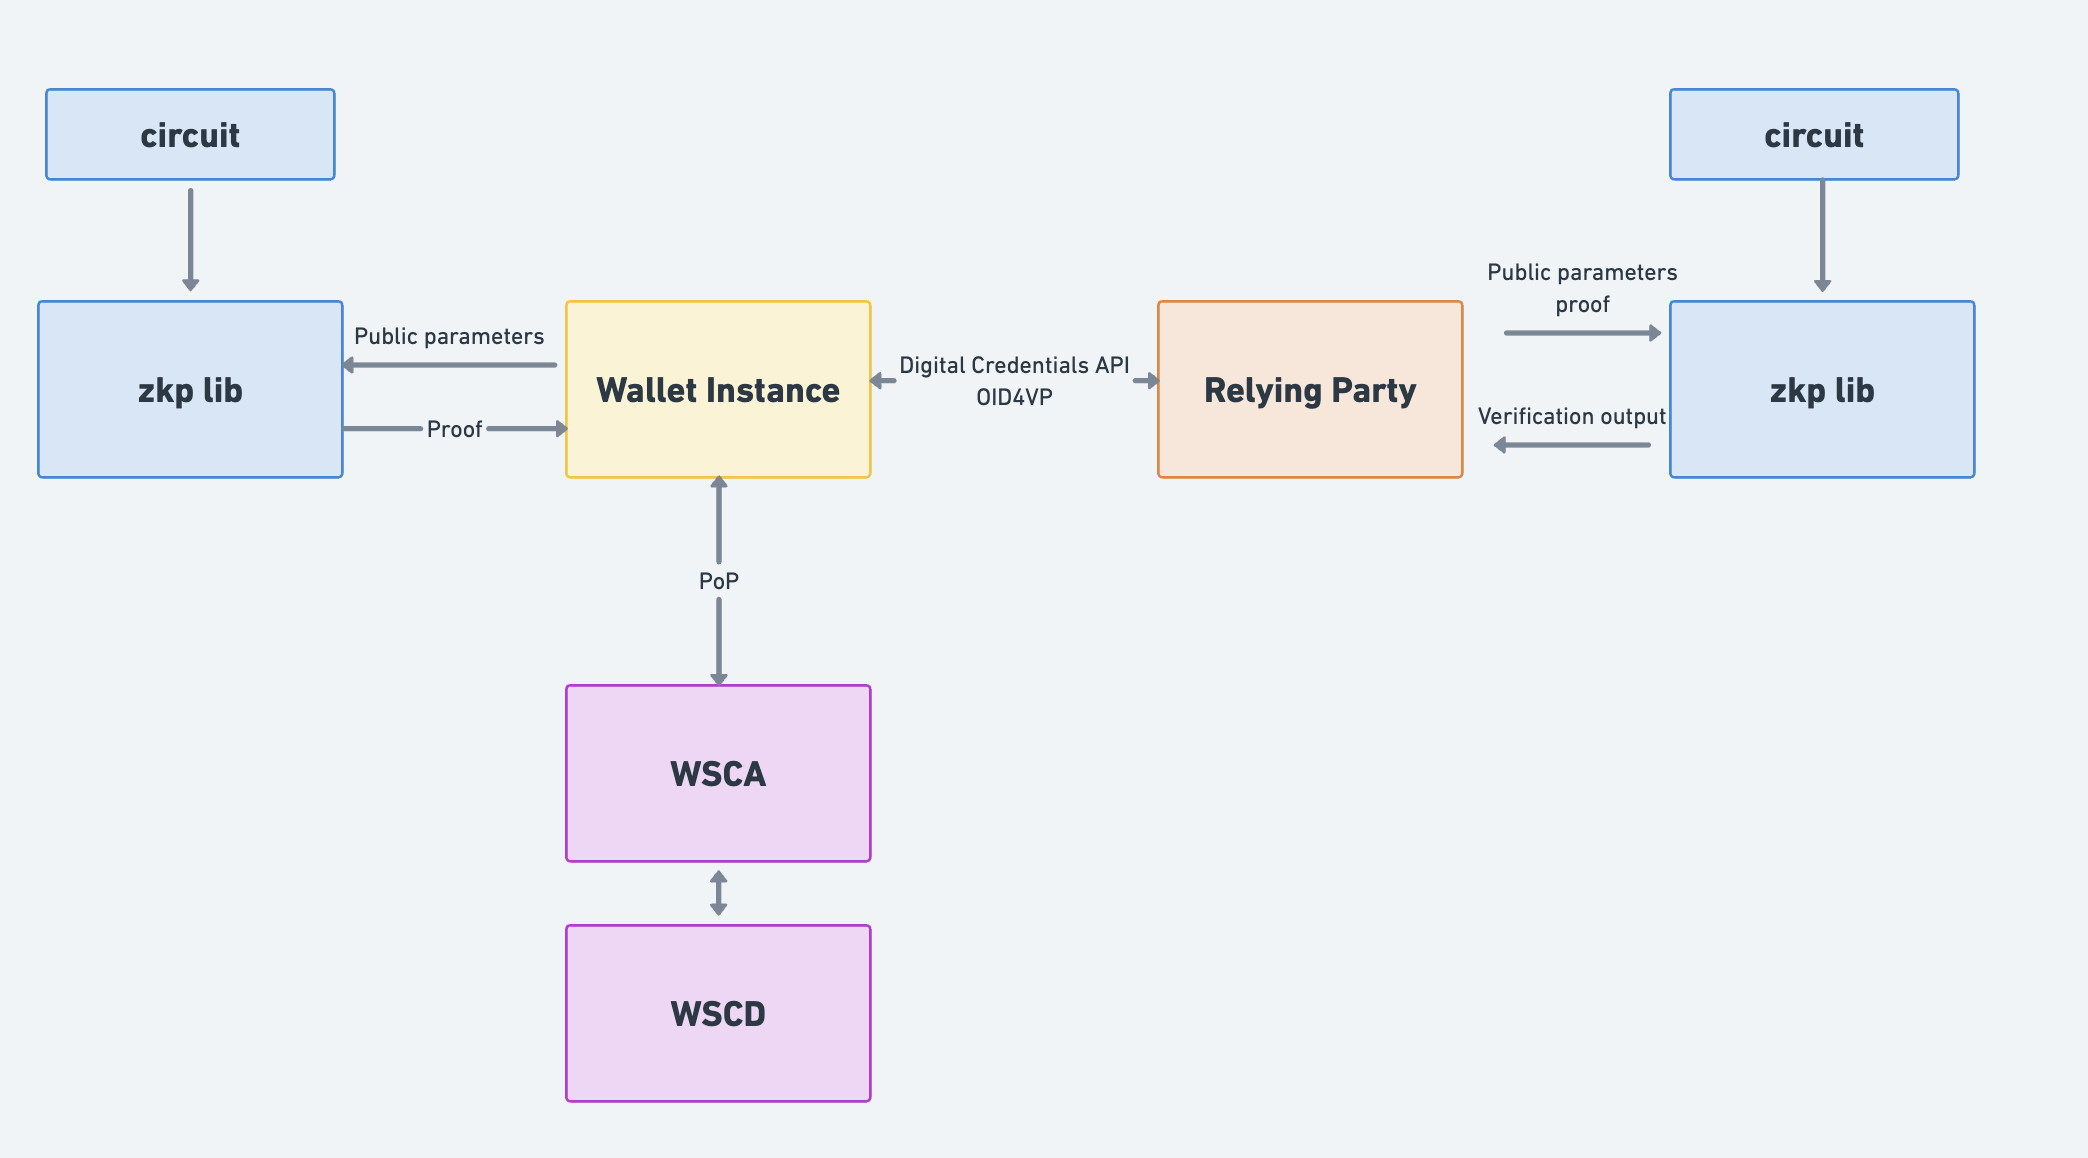
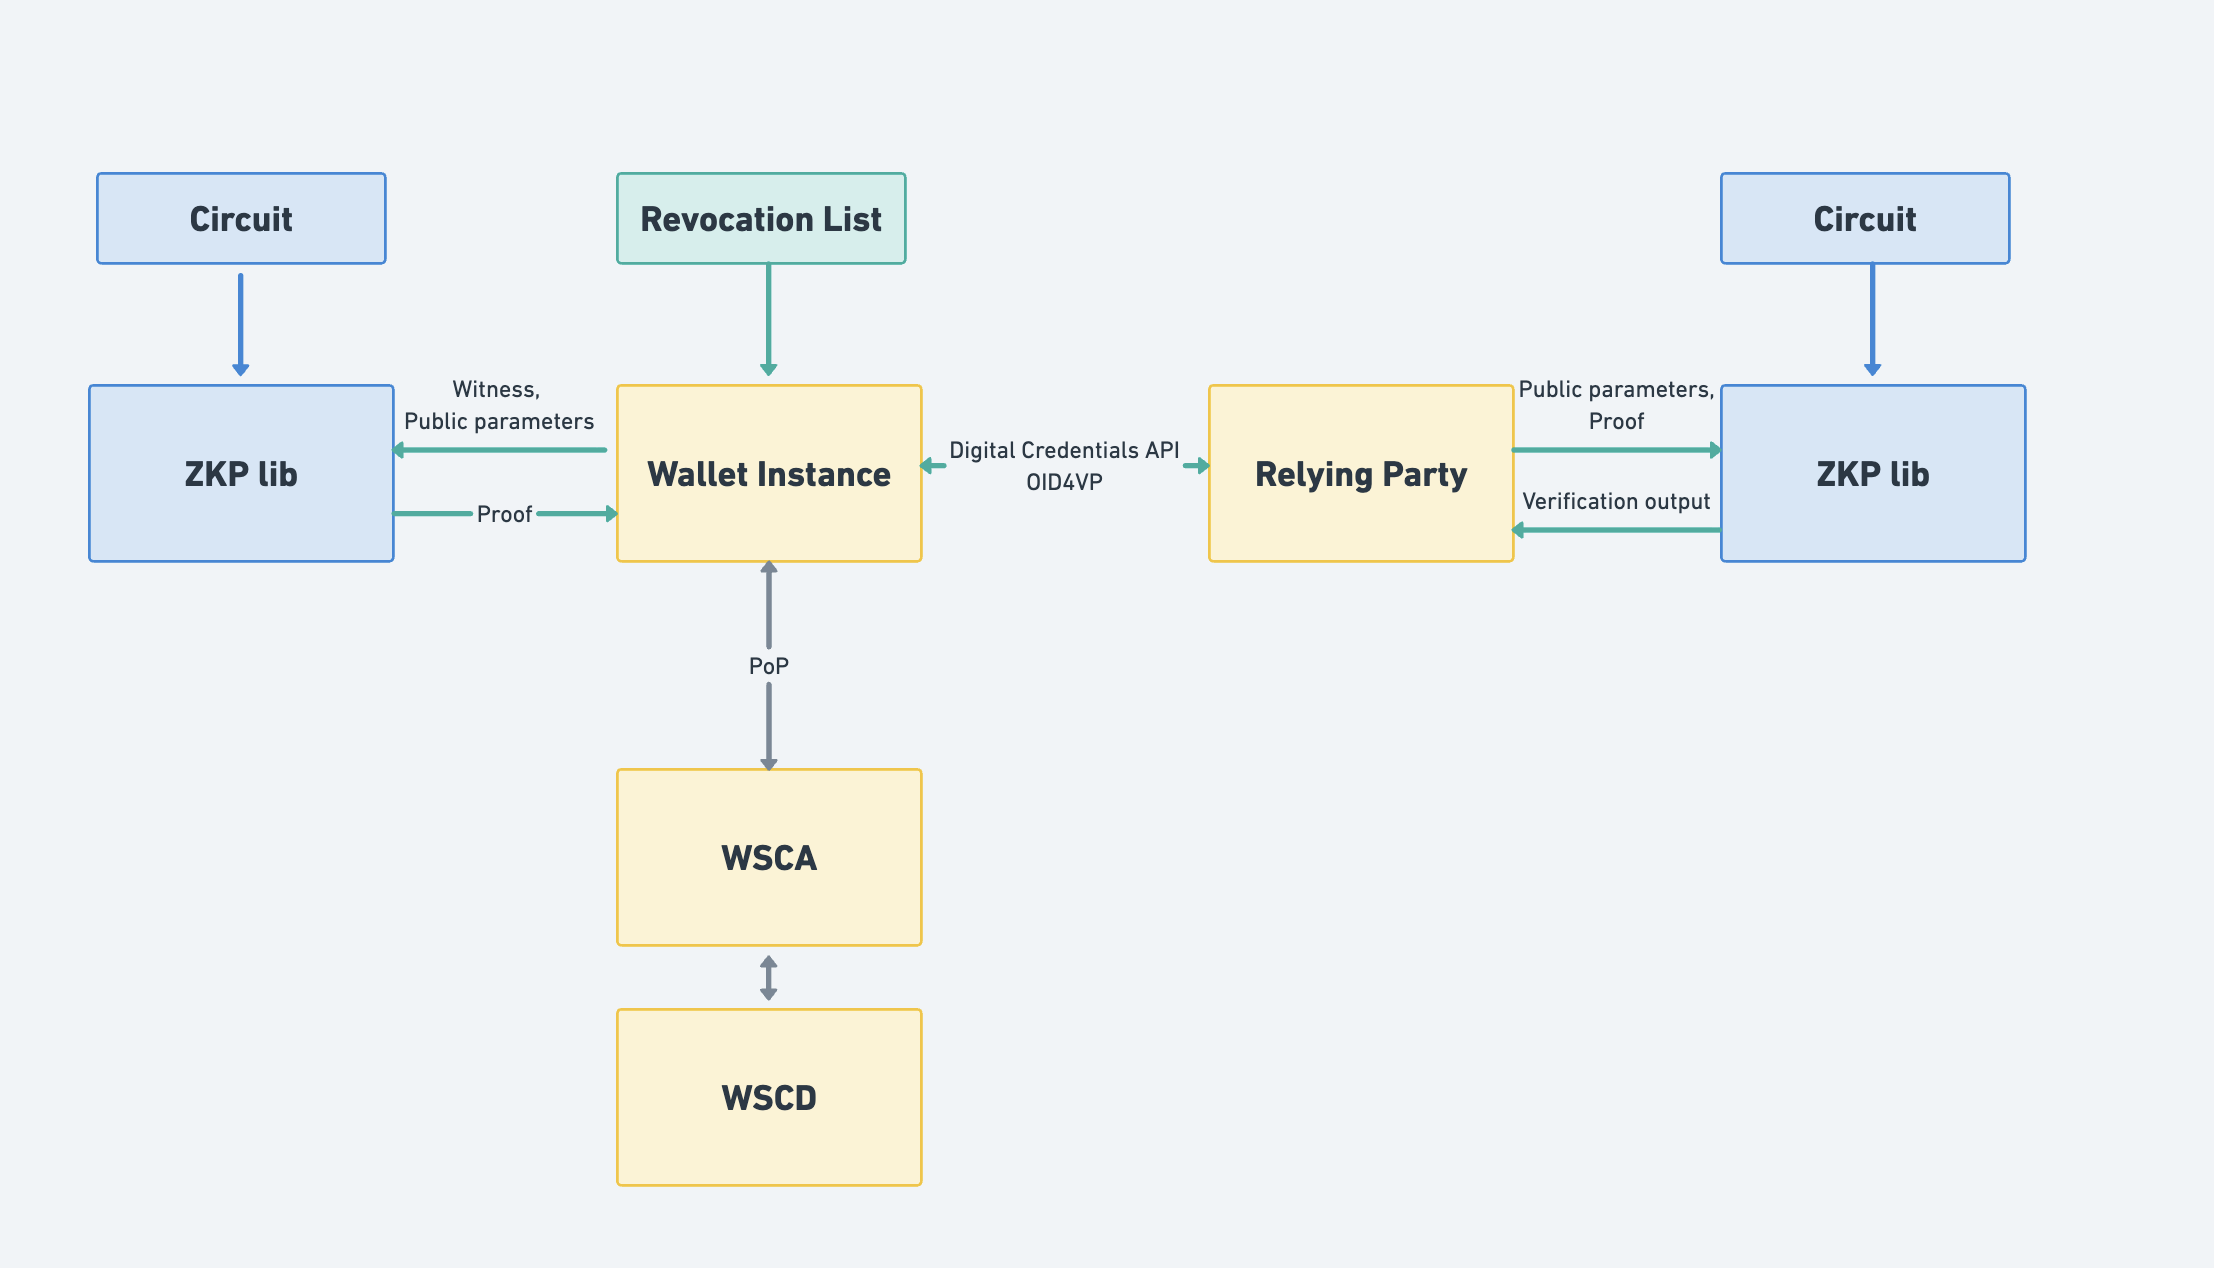
Review/ts13 after second fgm (#124)
---------

Changed region(s): [[0.0, 0.0622, 0.965, 0.9637], [0.2802, 0.1244, 0.4358, 0.2176]]

diff --git a/docs/technical-specifications/ts13-zksnarks.md b/docs/technical-specifications/ts13-zksnarks.md
@@ -2,11 +2,14 @@
 
 # Specification for the implementation of Zero-Knowledge Proofs based on arithmetic circuits in the EUDI Wallet
 
+## Note
+This TS represents exploratory work that will subsequently be handed over to ETSI for further development and formal specification.
+
 ## Abstract
 
 The present document specifies the modular technical specification and requirements for
-the implementation of Zero-Knowledge Proof (ZKP) based on arithmetic circuits
-in the EUDI Wallet.
+the implementation of Zero-Knowledge Proof (ZKP) based on arithmetic circuits, without 
+trusted setup, in the EUDI Wallet.
 
 ### [GitHub discussion](https://github.com/eu-digital-identity-wallet/eudi-doc-standards-and-technical-specifications/discussions/440)
 
@@ -14,7 +17,8 @@ in the EUDI Wallet.
 
 | Version | Date | Description |
 |---------|------------|------------|
-| `0.9` | 7.111.2025 | Improvements based on internal review
+| `0.95` | 24.11.2025 | Improvements based on second focus meeting
+| `0.9` | 7.11.2025 | Improvements based on internal review
 | `0.8` | 24.10.2025 | Improvements based on first focus meeting
 | `0.7` | 14.10.2025 | Improvements based on internal review
 | `0.6` | 09.10.2025 | Detailed circuit description extended, initial description of presentation protocols |
@@ -31,6 +35,16 @@ It defines the requirements and technical specifications for integrating a ZK pr
 mdoc or SD-JWT credential. As there is no algebraic structure in those legacy formats, the ZK statement
 will be expressed as an arithmetic circuit. Any suitable ZK system capable of producing a ZK proof that the
 statement is valid can satisfy these requirements.
+
+Defining ZK based on arithmetic circuits is a modular approach that is well 
+suited to the problem of digital identity for standardized credential formats. 
+Several recent ZK schemes, which rely on different techniques and complexity 
+assumptions, claim to process arithmetic circuits. For examples, ZK schemes 
+that rely on elliptic curve cryptography, such as Bulletproofs [BBDPWM2017] 
+and ZKAttest [FLM2021], can produce proofs concerning arithmetic circuits. 
+Similarly, ZK Schemes such as Ligero [Ame2017] and Longfellow [Fri2024] also 
+process arithmetic circuits, but only rely on the security of a hash function 
+such as SHA-256, and claim to be several factors more efficient.
 
 Regulation (EU) 2024/1183 of the European Parliament and of the Council of 11
 April 2024 amending Regulation (EU) No 910/2014 as regards establishing the
@@ -92,7 +106,7 @@ Specification.
 within the EUDI wallet.  
 - Section 5 discusses changes required to presentation protocols
 - Section 6 discusses revocation
-- Section 7 details how a proof and a circuit are serialized
+
 
 ## 2 High-level requirements
 
@@ -118,17 +132,14 @@ https://datatracker.ietf.org/doc/draft-google-cfrg-libzk/)
 
 **Out of scope**
 The following items are considered out of scope for this Technical Specification:
-* Proximity-based flows (**Note** Proof sizes are on the order of 200KB, which
-makes them impractical for proximity use cases. However this violates HLR ZKP_05
-of Annex 2 of the ARF)
-* Pseudonyms (**Note** This requires changes to the issuance process,
-specifically binding attestations to a secret that is then used to derive
-the pseudonym)  
+* Proximity-based flows 
+* Pseudonyms  
 * Cryptographic validation
 * Combined presentation of attributes
 * Use of ZKP during attestation issuance (e.g., use of ZKP in WUA, use of ZKP for
 proving that two attestation are bound to the same WSCA/WSCD)
 * Issuer hiding
+* Solutions based on arithmetic circuits that require a trusted setup
 
 ## 3 Overview of a circuit-based ZK system.
 
@@ -141,15 +152,6 @@ The circuit evaluates these inputs and outputs *true* if the defined conditions 
 A Wallet Unit can then generate a ZKP demonstrating that it possesses a valid witness which, when  
 used with the specified circuit and public statement, results in the circuit outputting *true*.
 
-Defining ZK based on arithmetic circuits is a modular approach that is well 
-suited to the problem of digital identity for standardized credential formats. 
-Several recent ZK schemes, which rely on different techniques and complexity 
-assumptions, claim to process arithmetic circuits. For examples, ZK schemes 
-that rely on elliptic curve cryptography, such as Bulletproofs [BBDPWM2017] 
-and ZKAttest [FLM2021], can produce proofs concerning arithmetic circuits. 
-Similarly, ZK Schemes such as Ligero [Ame2017] and Longfellow [Fri2024] also 
-process arithmetic circuits, but only rely on the security of a hash function 
-such as SHA-256, and claim to be several factors more efficient.
 
 ### 3.1 Security properties
 A ZKP system must satisfy three key properties:
@@ -160,9 +162,7 @@ the protocol correctly, the verifier will be convinced of its validity.
 * Soundness: If the statement is false, a dishonest prover cannot convince an 
 honest verifier that it is true, **except with some negligible probability**.
 
-*Statistical soundness*. A zkSNARK has statistical soundness if, even against 
-an adversary with unbounded computational power, the probability that a false 
-statement is very low.  
+*Statistical soundness*. A zkSNARK has $\lambda$-bit statistical soundness if for every time-bound $T$ and probability $\epsilon$, if a $T$-bounded adversary succeeds in breaking soundness with probability $\epsilon$, then it must hold that $T/\epsilon \geq 2^\lambda$. For example, if a scheme supports 100-bits of statistical soundness, then any adversary that runs for 2^{80} steps of computation has less than a 1-in-a-million chance of convincing a verifier to accept a proof of a false statement.
 
 
 
@@ -180,7 +180,8 @@ ensure correctness and security.
 #### Issuance
 
 PID Providers or Attestation Providers remain unaffected by this scheme. No 
-changes are required to the existing attestation issuance process. This property 
+changes are required to the existing attestation issuance process, however, as
+discussed in Section 6, a new revocation scheme is required. This property 
 is considered to be the biggest advantage of this approach, because the privacy 
 properties offered by the ZK proof do not require changes to the issuance 
 infrastructure  
@@ -455,7 +456,6 @@ An example of the former JSON object follows:
 
 ## 6 Revocation
 
-(**Work in progress**)
 This section presents a method of revoking credentials that is well-suited for 
 incorporation into an arithmetic circuit that can be processed by a ZK proof 
 system. Let us first illustrate the problem with ZK and standard revocation 
@@ -466,7 +466,6 @@ signature, and then, when given a new presentment, checks whether the credential
 id is a member of the list. Unfortunately, when these steps are expressed in 
 an arithmetic circuit, the entire list must be given as input to the circuit. 
 In addition, relying parties must download the entire list of revoked credentials.
-
 An alternative approach is for the revoker to create a Merkle tree of "valid" 
 credentials each day, then to sign the root of the Merkle tree, and require that 
 each user include a Merkle path from their credential to the root with each 
@@ -476,13 +475,11 @@ and valid credentials each day. Expressing the verification check in a ZK circui
 is better than before: instead of processing the entire list of revoked 
 credentials, it suffices to include and verify a logarithmic-size Merkle 
 path in the presentment with respect to the root.
-
 Cryptographic accumulators have been suggested for use in revocation. However, 
 in many accumulator systems, the revoker must compute a different witness for 
 each user, and must privately convey the witness to the user in order for the 
 user to prove inclusion (or exclusion) in the accumulator. This makes deployment 
 of such a scheme difficult at scale.
-
 The scheme suggested here avoids all of these problems. The revoker only needs 
 to perform a computation that is proportional to the number of revoked parties 
 each epoch. The user only requires a constant-sized witness (that can be public 
@@ -491,29 +488,47 @@ of work (with respect to the total number of revoked or issued credentials in
 the system) to prove that their credential is valid during presentment. Finally, 
 relying parties also only require a constant amount of information to validate 
 a proof.
-
 For each attestation a Wallet Unit only needs to download the relevant signed identifier pairs
 that correspond to the position of an attestation identifier within the list.
 To prove that a given attestation identified by `ID` has not been revoked, the
 wallet unit generates a zero-knowledge proof of knowledge of a valid signature
 over a pair of revoked identifiers `(Lid, Rid)` such that: `Lid < ID < Rid`
 
-## System parameters
+### System parameters
+
+It is assumed that an issued credential has a unique identifier $id$ which can be used to designate the credentials that are revoked.  
 
 The system requires that all parties maintain the following information
 
 1. The public signing key, `ipk`, of the revoking party.
 2. An epoch number, ep, that indicates the date of the revocation.
+2. An epoch number, `ep`, that indicates the date of the revocation.
 
-### List representation
 
-**TO BE PROVIDED** How a proof is included in a presentation?
+### List generation
 
-## 7 Proof and Circuit serialization
+The revoker wishes to revoke credentials in the list `L = {id1, id2, ..., idn}` where `L` is in sorted ascending order so that `id_i < id_{i+1}`. The revoker prepares the revocation list `R_L = { \sigma_i }_{i=1,...,n-1}` where `\sigma_i = sign(ipk, (id_i, id_{i+1}, ep))`. In other words, the  list `R_L` consists of digital signatures under key `ipk` of consecutive pairs of identifiers appearing in list `L` along with the epoch identifier `ep`.
 
-(**Work in progress**)
+Even more specifically, suppose the identifer `id_i` is a 64-bit value, and epoch is a 32-bit value.  The signed message should be formatted by concatenating the little-endian serialization of the three values.
 
-## 8 Optimizations
+This list can be formatted in JSON, and each signature can be accompanied by the pair `id_i, id_{i+1}` for convenience in parsing. 
+For example, consider the list `L={10,11,14,96}` the DER-encoded public key `ipk = 04f142cef554bf1cac09664f76355081a6a6e7adc1aa8b23c6e15c24470d403b06a811d33c8e9d8b6d18894268c96dc468ac92b53ee13deb574d713af67eb2e343`, and epoch 2.
+
+The revocation list consists of 3 signatures on the messages
+```
+0a000000000000000b0000000000000002000000
+0b000000000000000e0000000000000002000000
+0e00000000000000600000000000000002000000
+```
+one suitable `R_L` list is:
+```
+{
+}
+```
+### Revocation clause
+In each presentation proof, the user's proof includes a portion that asserts that "there exists values id_L, id_R, and a signature sigma_j under ipk, and the identifier of their document, id, such that sigma_j is a signature of a message (id_L, id_R, ep) and id_L < id < id_R."
+
+
 
 ## References
 | Reference | Description|
